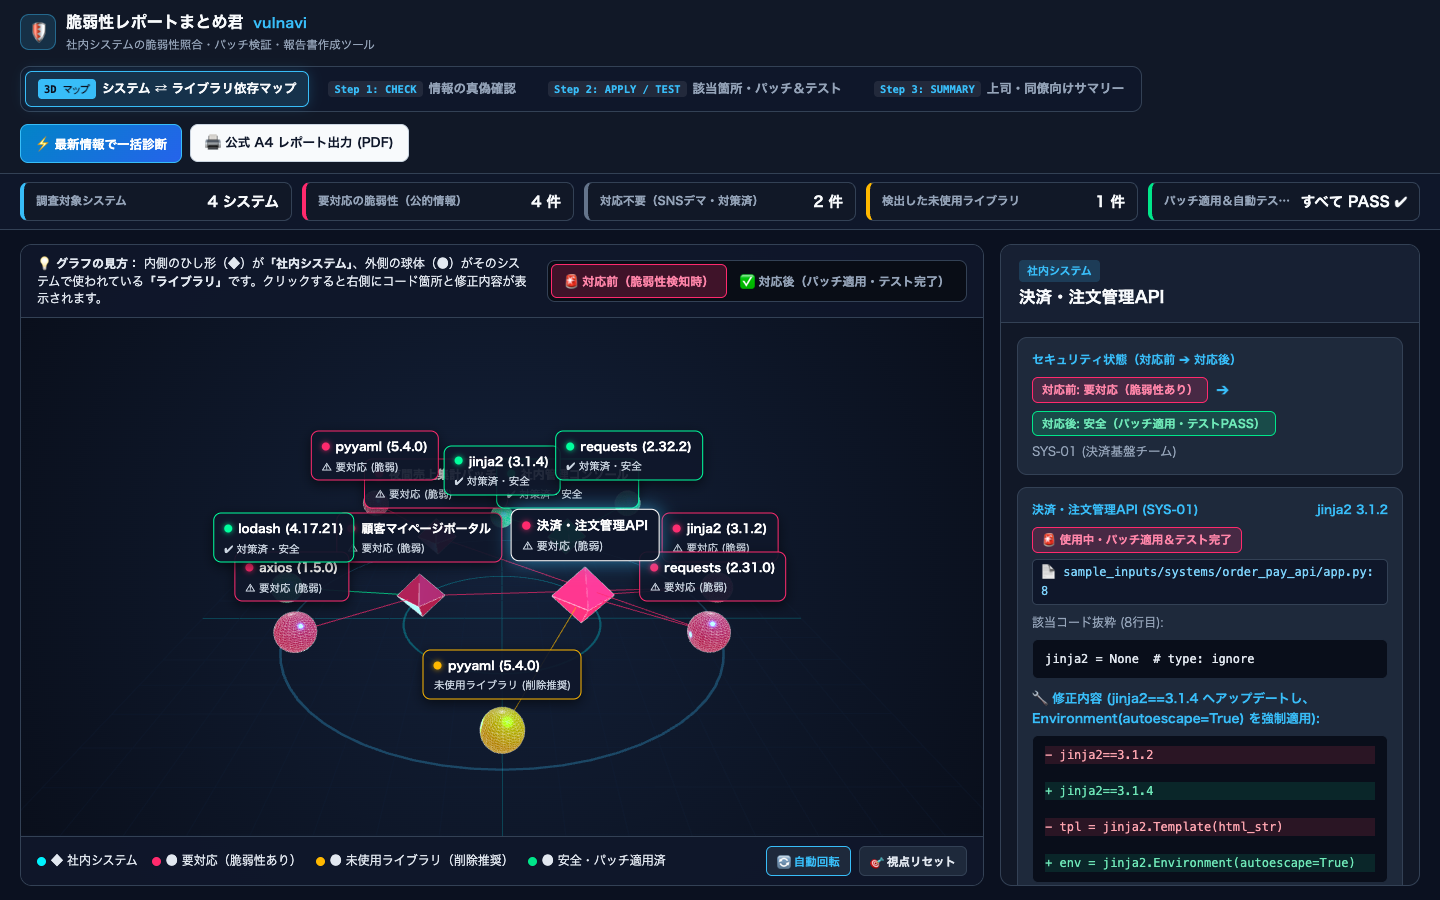
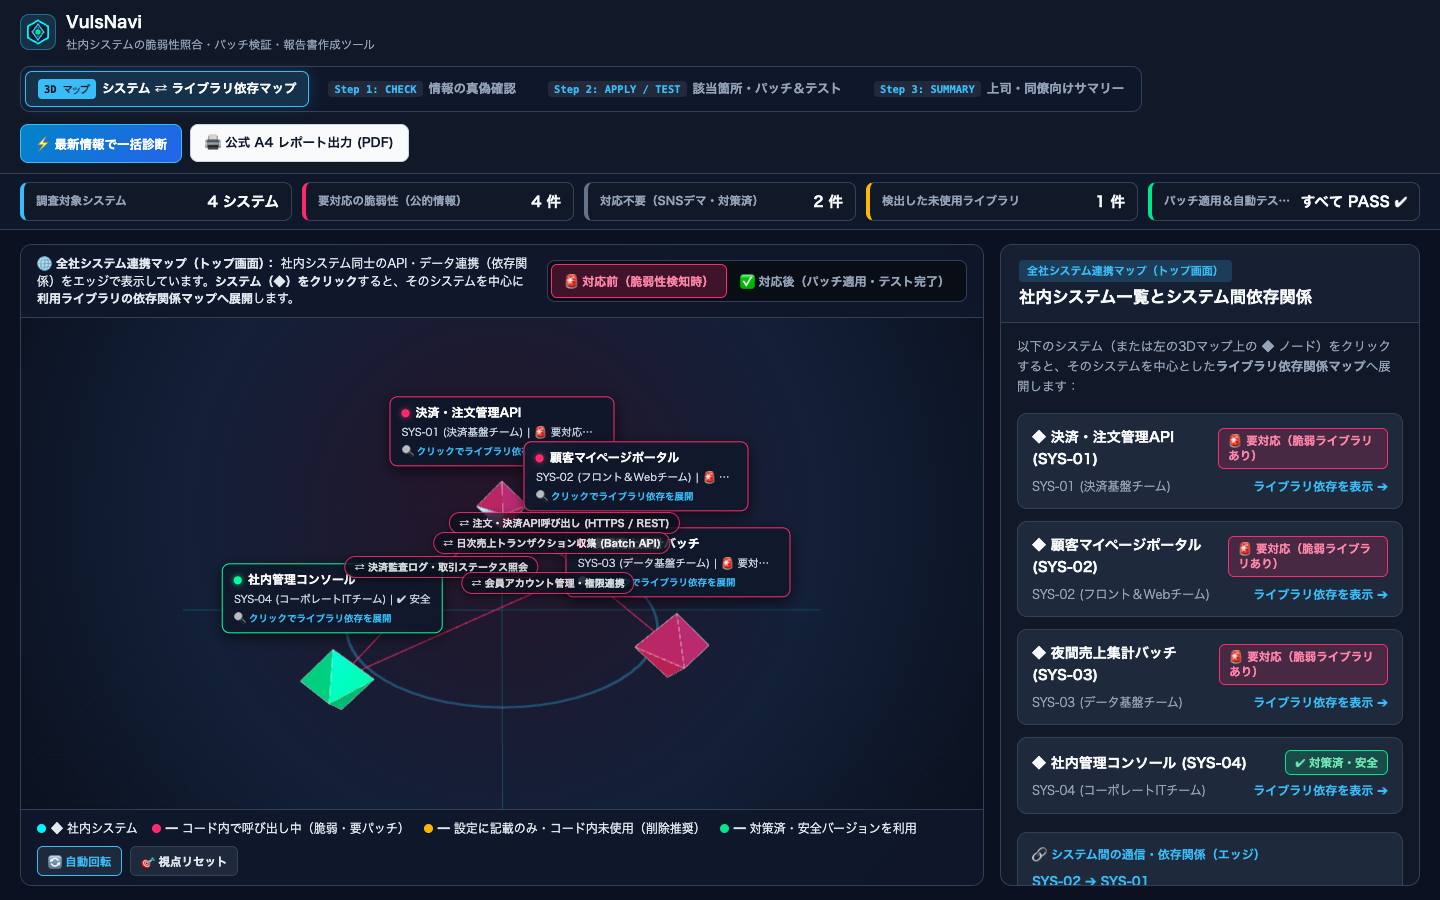
docs: update presentation to VulsNavi branding and refresh 2-stage 3D map & official report screenshots

diff --git a/docs/index.html b/docs/index.html
@@ -3,7 +3,7 @@
 <head>
   <meta charset="UTF-8" />
   <meta name="viewport" content="width=device-width, initial-scale=1.0" />
-  <title>VulNavi（脆弱性レポートまとめ君） - Hackathon Pitch Deck</title>
+  <title>VulsNavi（社内システム脆弱性照合・3D依存関係ナビゲーター） - Hackathon Pitch Deck</title>
   <style>
     :root {
       --bg-dark: #0b0f19;
@@ -606,7 +606,7 @@
   <header class="topbar">
     <div class="brand">
       <span class="brand-badge">5-Min Pitch</span>
-      <span class="brand-title">VulNavi（脆弱性レポートまとめ君）</span>
+      <span class="brand-title">VulsNavi（脆弱性レポートまとめ君）</span>
     </div>
     <div class="controls">
       <div class="timer-pill" id="timerBtn" title="クリックで開始/停止（ダブルクリックでリセット）">
@@ -646,12 +646,19 @@
             <span class="badge badge-blue" style="font-size: 0.8rem; padding: 4px 14px;">
               Google Cloud (Cloud Run + Gemini 3.8 Flash) × Antigravity
             </span>
-            <h1 class="hero-title">
-              VulNavi
-              <span class="hero-title-sub">脆弱性レポートまとめ君</span>
+            <h1 class="hero-title" style="display: inline-flex; flex-direction: column; align-items: center; gap: 6px;">
+              <span style="display: inline-flex; align-items: center; gap: 12px;">
+                <svg viewBox="0 0 36 36" width="44" height="44" fill="none" xmlns="http://www.w3.org/2000/svg" style="flex-shrink: 0;">
+                  <polygon points="18,2 32,10 32,26 18,34 4,26 4,10" fill="rgba(56, 189, 248, 0.14)" stroke="#38bdf8" stroke-width="2"/>
+                  <polygon points="18,8 26,18 18,28 10,18" fill="rgba(16, 185, 129, 0.25)" stroke="#10b981" stroke-width="1.8"/>
+                  <circle cx="18" cy="18" r="3" fill="#f8fafc"/>
+                </svg>
+                VulsNavi
+              </span>
+              <span class="hero-title-sub">社内システム脆弱性照合・パッチ検証・報告書作成ツール</span>
             </h1>
             <p class="hero-sub">
-              SNS・公的機関の「真偽判定」から「コード特定・テスト」「3D＆公式PDF報告」までを一気通貫で自働化
+              SNS・公的機関の「真偽判定」から「コード特定・テスト」「2段階3Dマップ＆公式PDF報告」までを一気通貫で自働化
             </p>
           </div>
 
@@ -681,7 +688,7 @@
 
         <div class="speaker-notes">
           <span class="speaker-notes-label">🎤 トーク原稿（0:00 - 0:30）</span>
-          私たちは、脆弱性情報の真偽確認から社内複数システムのコード走査・テスト、そして上司にそのまま提出できる公式PDFレポート生成までを自働化する「VulNavi（脆弱性レポートまとめ君）」を開発しました。
+          私たちは、脆弱性情報の真偽確認から社内複数システムのコード走査・テスト、そして上司にそのまま提出できる公式PDFレポート生成までを自働化する「VulsNavi（脆弱性レポートまとめ君）」を開発しました。
         </div>
       </section>
 
@@ -888,7 +895,7 @@
               <rect x="8" y="8" width="1104" height="58" rx="10" fill="#FFFFFF"/>
               <line x1="8" y1="66" x2="1112" y2="66" stroke="#E8EAED" stroke-width="1.5"/>
               <rect x="28" y="24" width="6" height="28" rx="3" fill="#4285F4"/>
-              <text x="46" y="38" font-size="18" font-weight="700" fill="#202124">Google Cloud アーキテクチャ図 — 脆弱性レポートまとめ君 (vulnavi)</text>
+              <text x="46" y="38" font-size="18" font-weight="700" fill="#202124">Google Cloud アーキテクチャ図 — VulsNavi (脆弱性レポートまとめ君)</text>
               <text x="46" y="55" font-size="12" fill="#5F6368">Cloud Run (IAM 認証保護) + Vertex AI / Gemini 3.8 Flash + Three.js 3D レポート &amp; 公式 PDF 出力</text>
 
               <g transform="translate(28, 90)" filter="url(#box-shadow)">
@@ -1034,7 +1041,7 @@
           <div class="demo-frame">
             <div class="demo-window-bar">
               <div class="window-dots"><span class="dot-r"></span><span class="dot-y"></span><span class="dot-g"></span></div>
-              <span>Three.js 3D ビューア（対応前 ⇔ 対応後切替 ＋ 該当行番号・パッチ差分・unittest 自動検証）</span>
+              <span>Three.js 2段階ドリルダウン 3D マップ（全社システム間連携 ➔ 個別ライブラリ展開 ＋ 対応前/対応後切替）</span>
               <span class="badge badge-emerald">実画面スクリーンショット</span>
             </div>
             <div class="demo-content">
@@ -1043,7 +1050,7 @@
                 class="uploaded-preview"
                 src="assets/demo_3d_map.png"
                 onerror="if(!this.dataset.fb){this.dataset.fb='1';this.src='http://127.0.0.1:8080/static/assets/demo_3d_map.png';}else if(this.dataset.fb==='1'){this.dataset.fb='2';this.src='https://raw.githubusercontent.com/tchida13/vulnavi/main/presentation/assets/demo_3d_map.png';}"
-                alt="VulNavi Three.js 3D Map Screenshot"
+                alt="VulsNavi Three.js 3D Map Screenshot"
               />
             </div>
           </div>
@@ -1080,7 +1087,7 @@
                 class="uploaded-preview"
                 src="assets/demo_report.png"
                 onerror="if(!this.dataset.fb){this.dataset.fb='1';this.src='http://127.0.0.1:8080/static/assets/demo_report.png';}else if(this.dataset.fb==='1'){this.dataset.fb='2';this.src='https://raw.githubusercontent.com/tchida13/vulnavi/main/presentation/assets/demo_report.png';}"
-                alt="VulNavi Official A4 Report Screenshot"
+                alt="VulsNavi Official A4 Report Screenshot"
               />
             </div>
           </div>
@@ -1166,7 +1173,7 @@
             </div>
 
             <div class="card highlight-emerald">
-              <span class="badge badge-emerald" style="align-self: flex-start;">AFTER (VulNavi)</span>
+              <span class="badge badge-emerald" style="align-self: flex-start;">AFTER (VulsNavi)</span>
               <div class="card-title">✨ 4ステップで検証済みレポートまで完結</div>
               <p class="card-desc">
                 真偽精査 ➔ パッチ＆テスト ➔ 3Dマップ＆A4公式PDFまでワンクリック
@@ -1192,7 +1199,7 @@
 
         <div class="speaker-notes">
           <span class="speaker-notes-label">🎤 トーク原稿（4:35 - 5:00）</span>
-          VulNavi によって、人間は調査と報告書作成から解放され、最終判断だけに集中できます。今後は定期実行や Apple Watch 通知と連携し、完全自動のセキュリティ工場へと進化させます。ご清聴ありがとうございました！
+          VulsNavi によって、人間は調査と報告書作成から解放され、最終判断だけに集中できます。今後は定期実行や Apple Watch 通知と連携し、完全自動のセキュリティ工場へと進化させます。ご清聴ありがとうございました！
         </div>
       </section>
 
@@ -1202,7 +1209,7 @@
   <footer class="slide-footer">
     <div class="progress-bar" id="progressBar" style="width: 12.5%;"></div>
     <div>キー操作: <code>←</code> <code>→</code> 移動 ｜ <code>N</code> 解説メモ ｜ <code>G</code> 一覧 ｜ <code>F</code> 全画面</div>
-    <div>VulNavi — Antigravity Hackathon</div>
+    <div>VulsNavi — Antigravity Hackathon</div>
   </footer>
 
   <script>

diff --git a/presentation/index.html b/presentation/index.html
@@ -3,7 +3,7 @@
 <head>
   <meta charset="UTF-8" />
   <meta name="viewport" content="width=device-width, initial-scale=1.0" />
-  <title>VulNavi（脆弱性レポートまとめ君） - Hackathon Pitch Deck</title>
+  <title>VulsNavi（社内システム脆弱性照合・3D依存関係ナビゲーター） - Hackathon Pitch Deck</title>
   <style>
     :root {
       --bg-dark: #0b0f19;
@@ -606,7 +606,7 @@
   <header class="topbar">
     <div class="brand">
       <span class="brand-badge">5-Min Pitch</span>
-      <span class="brand-title">VulNavi（脆弱性レポートまとめ君）</span>
+      <span class="brand-title">VulsNavi（脆弱性レポートまとめ君）</span>
     </div>
     <div class="controls">
       <div class="timer-pill" id="timerBtn" title="クリックで開始/停止（ダブルクリックでリセット）">
@@ -646,12 +646,19 @@
             <span class="badge badge-blue" style="font-size: 0.8rem; padding: 4px 14px;">
               Google Cloud (Cloud Run + Gemini 3.8 Flash) × Antigravity
             </span>
-            <h1 class="hero-title">
-              VulNavi
-              <span class="hero-title-sub">脆弱性レポートまとめ君</span>
+            <h1 class="hero-title" style="display: inline-flex; flex-direction: column; align-items: center; gap: 6px;">
+              <span style="display: inline-flex; align-items: center; gap: 12px;">
+                <svg viewBox="0 0 36 36" width="44" height="44" fill="none" xmlns="http://www.w3.org/2000/svg" style="flex-shrink: 0;">
+                  <polygon points="18,2 32,10 32,26 18,34 4,26 4,10" fill="rgba(56, 189, 248, 0.14)" stroke="#38bdf8" stroke-width="2"/>
+                  <polygon points="18,8 26,18 18,28 10,18" fill="rgba(16, 185, 129, 0.25)" stroke="#10b981" stroke-width="1.8"/>
+                  <circle cx="18" cy="18" r="3" fill="#f8fafc"/>
+                </svg>
+                VulsNavi
+              </span>
+              <span class="hero-title-sub">社内システム脆弱性照合・パッチ検証・報告書作成ツール</span>
             </h1>
             <p class="hero-sub">
-              SNS・公的機関の「真偽判定」から「コード特定・テスト」「3D＆公式PDF報告」までを一気通貫で自働化
+              SNS・公的機関の「真偽判定」から「コード特定・テスト」「2段階3Dマップ＆公式PDF報告」までを一気通貫で自働化
             </p>
           </div>
 
@@ -681,7 +688,7 @@
 
         <div class="speaker-notes">
           <span class="speaker-notes-label">🎤 トーク原稿（0:00 - 0:30）</span>
-          私たちは、脆弱性情報の真偽確認から社内複数システムのコード走査・テスト、そして上司にそのまま提出できる公式PDFレポート生成までを自働化する「VulNavi（脆弱性レポートまとめ君）」を開発しました。
+          私たちは、脆弱性情報の真偽確認から社内複数システムのコード走査・テスト、そして上司にそのまま提出できる公式PDFレポート生成までを自働化する「VulsNavi（脆弱性レポートまとめ君）」を開発しました。
         </div>
       </section>
 
@@ -888,7 +895,7 @@
               <rect x="8" y="8" width="1104" height="58" rx="10" fill="#FFFFFF"/>
               <line x1="8" y1="66" x2="1112" y2="66" stroke="#E8EAED" stroke-width="1.5"/>
               <rect x="28" y="24" width="6" height="28" rx="3" fill="#4285F4"/>
-              <text x="46" y="38" font-size="18" font-weight="700" fill="#202124">Google Cloud アーキテクチャ図 — 脆弱性レポートまとめ君 (vulnavi)</text>
+              <text x="46" y="38" font-size="18" font-weight="700" fill="#202124">Google Cloud アーキテクチャ図 — VulsNavi (脆弱性レポートまとめ君)</text>
               <text x="46" y="55" font-size="12" fill="#5F6368">Cloud Run (IAM 認証保護) + Vertex AI / Gemini 3.8 Flash + Three.js 3D レポート &amp; 公式 PDF 出力</text>
 
               <g transform="translate(28, 90)" filter="url(#box-shadow)">
@@ -1034,7 +1041,7 @@
           <div class="demo-frame">
             <div class="demo-window-bar">
               <div class="window-dots"><span class="dot-r"></span><span class="dot-y"></span><span class="dot-g"></span></div>
-              <span>Three.js 3D ビューア（対応前 ⇔ 対応後切替 ＋ 該当行番号・パッチ差分・unittest 自動検証）</span>
+              <span>Three.js 2段階ドリルダウン 3D マップ（全社システム間連携 ➔ 個別ライブラリ展開 ＋ 対応前/対応後切替）</span>
               <span class="badge badge-emerald">実画面スクリーンショット</span>
             </div>
             <div class="demo-content">
@@ -1043,7 +1050,7 @@
                 class="uploaded-preview"
                 src="assets/demo_3d_map.png"
                 onerror="if(!this.dataset.fb){this.dataset.fb='1';this.src='http://127.0.0.1:8080/static/assets/demo_3d_map.png';}else if(this.dataset.fb==='1'){this.dataset.fb='2';this.src='https://raw.githubusercontent.com/tchida13/vulnavi/main/presentation/assets/demo_3d_map.png';}"
-                alt="VulNavi Three.js 3D Map Screenshot"
+                alt="VulsNavi Three.js 3D Map Screenshot"
               />
             </div>
           </div>
@@ -1080,7 +1087,7 @@
                 class="uploaded-preview"
                 src="assets/demo_report.png"
                 onerror="if(!this.dataset.fb){this.dataset.fb='1';this.src='http://127.0.0.1:8080/static/assets/demo_report.png';}else if(this.dataset.fb==='1'){this.dataset.fb='2';this.src='https://raw.githubusercontent.com/tchida13/vulnavi/main/presentation/assets/demo_report.png';}"
-                alt="VulNavi Official A4 Report Screenshot"
+                alt="VulsNavi Official A4 Report Screenshot"
               />
             </div>
           </div>
@@ -1166,7 +1173,7 @@
             </div>
 
             <div class="card highlight-emerald">
-              <span class="badge badge-emerald" style="align-self: flex-start;">AFTER (VulNavi)</span>
+              <span class="badge badge-emerald" style="align-self: flex-start;">AFTER (VulsNavi)</span>
               <div class="card-title">✨ 4ステップで検証済みレポートまで完結</div>
               <p class="card-desc">
                 真偽精査 ➔ パッチ＆テスト ➔ 3Dマップ＆A4公式PDFまでワンクリック
@@ -1192,7 +1199,7 @@
 
         <div class="speaker-notes">
           <span class="speaker-notes-label">🎤 トーク原稿（4:35 - 5:00）</span>
-          VulNavi によって、人間は調査と報告書作成から解放され、最終判断だけに集中できます。今後は定期実行や Apple Watch 通知と連携し、完全自動のセキュリティ工場へと進化させます。ご清聴ありがとうございました！
+          VulsNavi によって、人間は調査と報告書作成から解放され、最終判断だけに集中できます。今後は定期実行や Apple Watch 通知と連携し、完全自動のセキュリティ工場へと進化させます。ご清聴ありがとうございました！
         </div>
       </section>
 
@@ -1202,7 +1209,7 @@
   <footer class="slide-footer">
     <div class="progress-bar" id="progressBar" style="width: 12.5%;"></div>
     <div>キー操作: <code>←</code> <code>→</code> 移動 ｜ <code>N</code> 解説メモ ｜ <code>G</code> 一覧 ｜ <code>F</code> 全画面</div>
-    <div>VulNavi — Antigravity Hackathon</div>
+    <div>VulsNavi — Antigravity Hackathon</div>
   </footer>
 
   <script>
